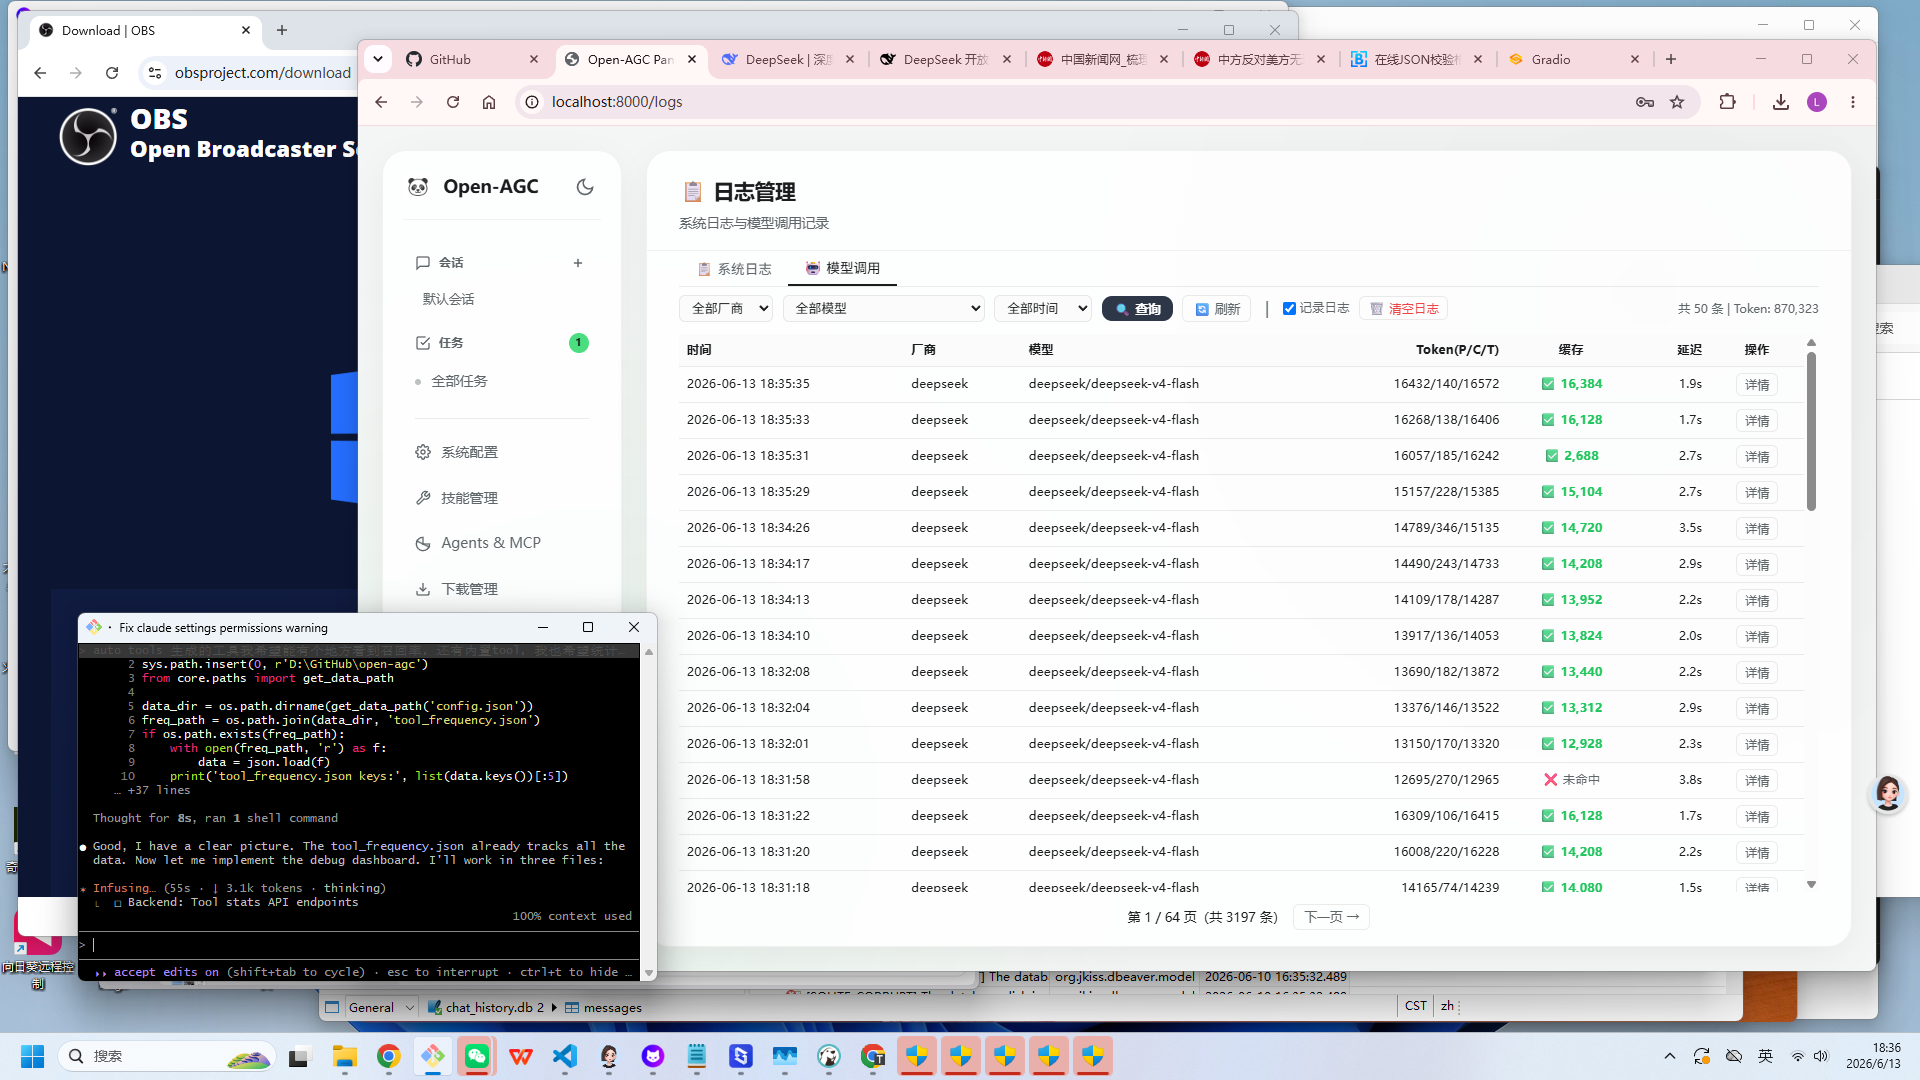
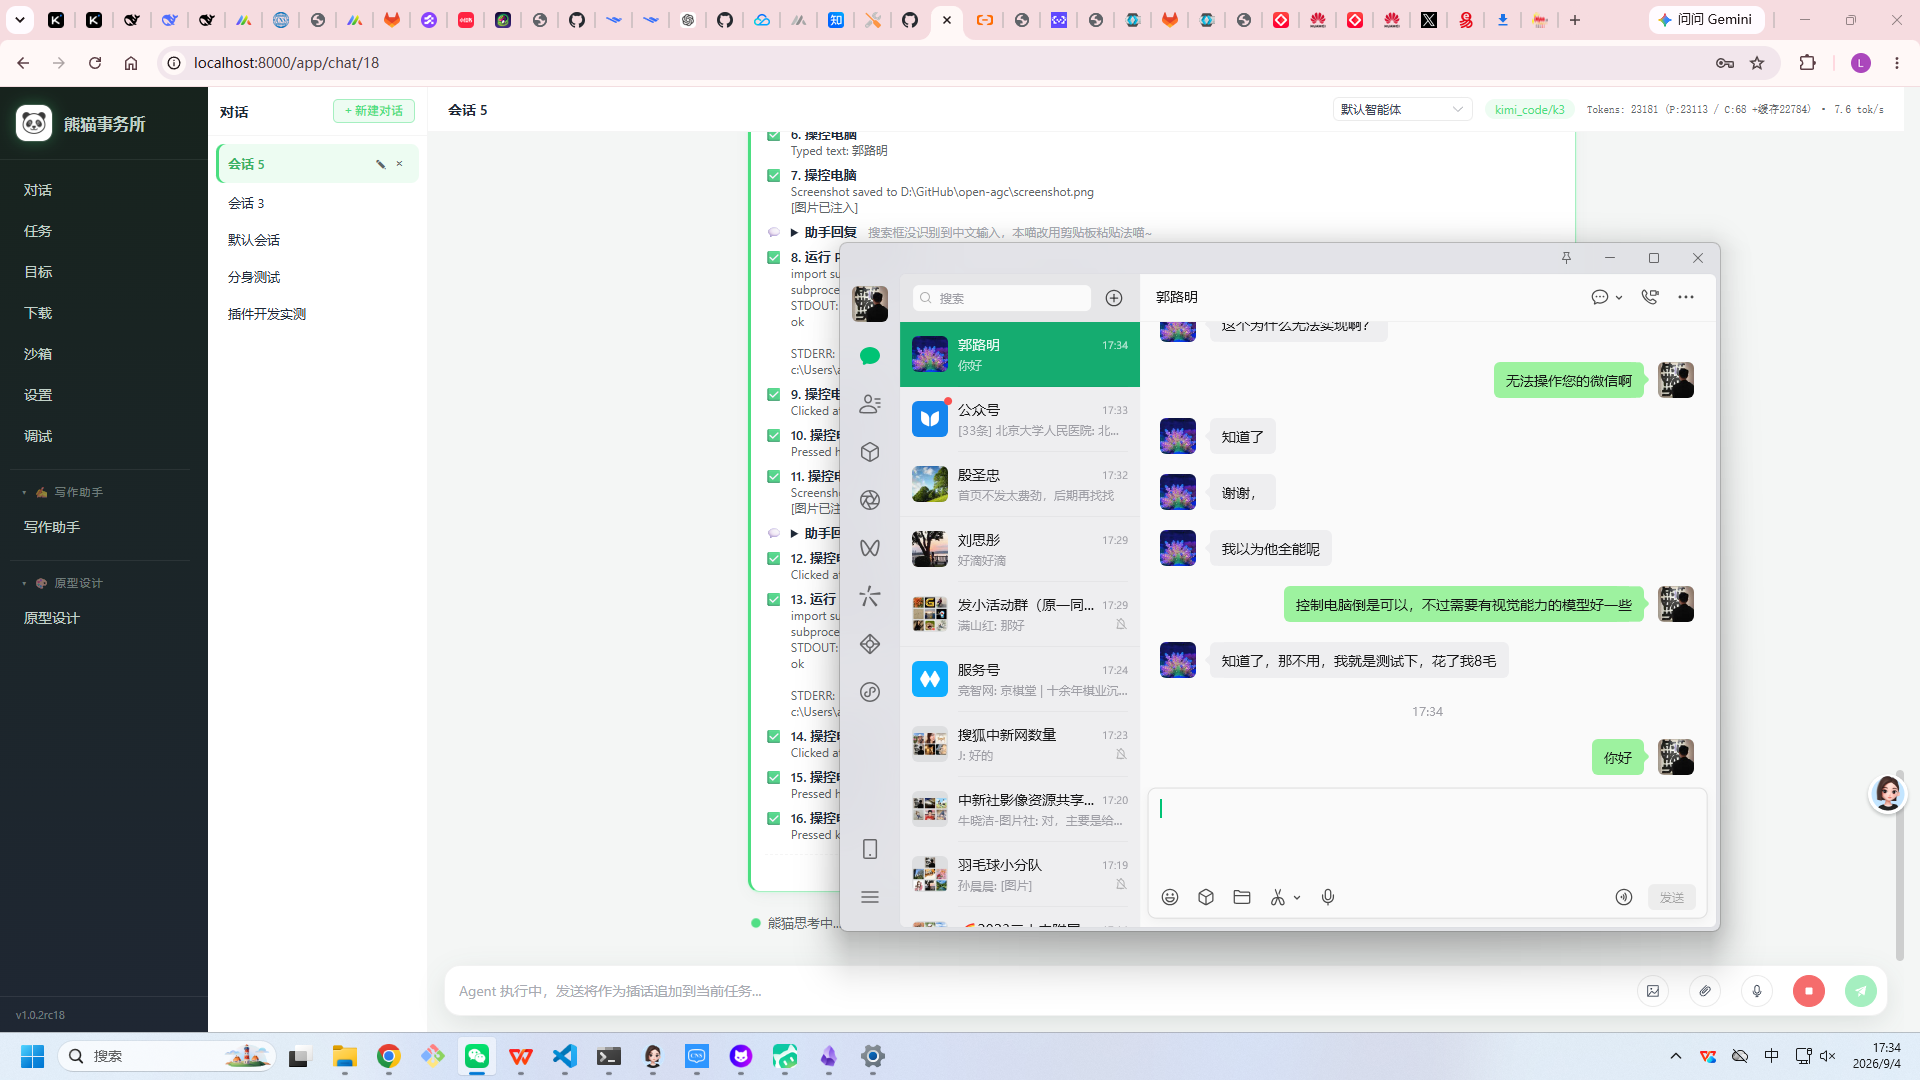
feat: 单实例锁——agent 任务中反复拉起 Open-AGC 导致多开窗口（无端口冲突也无互斥，每次启动一个新实例就开一个新窗口）。Windows 命名互斥体 / POSIX flock，进程退出自动释放，已有实例时直接退出不再开新窗

diff --git a/gui_app.py b/gui_app.py
@@ -342,7 +342,46 @@ def create_window(port):
         return _browser_fallback(_gui_err)
 
 
+def _acquire_single_instance_lock():
+    """单实例锁：已有实例运行时返回 False。
+
+    App 启动总是找空闲端口、没有任何互斥——agent 任务中执行了启动命令
+    （“测一下”“重启服务”等场景）就会每起一个新进程多开一个窗口（生产实证，
+    反复出现多个 Open-AGC 窗口）。Windows 用命名互斥体，POSIX 用 flock；
+    进程退出（含崩溃）自动释放。
+    """
+    if sys.platform.startswith('win'):
+        import ctypes
+        _ERROR_ALREADY_EXISTS = 183
+        handle = ctypes.windll.kernel32.CreateMutexW(None, False, "Global\\OpenAGC-SingleInstance")
+        if ctypes.windll.kernel32.GetLastError() == _ERROR_ALREADY_EXISTS:
+            try:
+                ctypes.windll.kernel32.CloseHandle(handle)
+            except Exception:
+                pass
+            return False
+        _acquire_single_instance_lock._handle = handle  # 防 GC 关闭句柄
+        return True
+
+    import fcntl
+    lock_path = os.path.join(os.path.expanduser("~"), ".open-agc", "app.lock")
+    os.makedirs(os.path.dirname(lock_path), exist_ok=True)
+    fd = open(lock_path, "w")
+    try:
+        fcntl.flock(fd, fcntl.LOCK_EX | fcntl.LOCK_NB)
+    except OSError:
+        fd.close()
+        return False
+    _acquire_single_instance_lock._fd = fd  # 防 GC 关闭 fd
+    return True
+
+
 def main():
+    # 单实例：已有实例在跑就直接退出，不再开新窗口
+    if not _acquire_single_instance_lock():
+        print("Open-AGC 已在运行中，不再启动第二个实例。")
+        sys.exit(0)
+
     # Attempt to find a free port instead of hardcoding 8765
     try:
         port = int(os.environ.get("PORT", find_free_port()))

diff --git a/tests/test_single_instance.py b/tests/test_single_instance.py
@@ -1,0 +1,47 @@
+# -*- coding: utf-8 -*-
+"""单实例锁回归测试：agent 任务中反复拉起 Open-AGC 时每起一个新进程就多开
+一个窗口（生产实证）。_acquire_single_instance_lock 必须在已有持锁者时
+返回 False，释放后可再拿。"""
+import importlib
+
+import gui_app
+
+
+def test_second_acquire_fails():
+    # 模块级句柄可能已被本进程其他测试持有——先清掉保证可重复
+    for attr in ("_handle", "_fd"):
+        if hasattr(gui_app._acquire_single_instance_lock, attr):
+            obj = getattr(gui_app._acquire_single_instance_lock, attr)
+            try:
+                if attr == "_fd":
+                    obj.close()
+            except Exception:
+                pass
+            delattr(gui_app._acquire_single_instance_lock, attr)
+
+    assert gui_app._acquire_single_instance_lock() is True
+    # 同一进程内再次获取必须失败（模拟第二个实例）
+    assert gui_app._acquire_single_instance_lock() is False
+
+
+def test_lock_released_allows_reacquire(tmp_path, monkeypatch):
+    """POSIX 路径：flock 释放后可重新获取（Windows 路径由上一用例覆盖）。"""
+    import sys
+    if sys.platform.startswith("win"):
+        import pytest
+        pytest.skip("POSIX flock 专用")
+    import fcntl, os
+    lock = tmp_path / "app.lock"
+    fd1 = open(lock, "w")
+    fcntl.flock(fd1, fcntl.LOCK_EX | fcntl.LOCK_NB)
+    fd2 = open(lock, "w")
+    try:
+        fcntl.flock(fd2, fcntl.LOCK_EX | fcntl.LOCK_NB)
+        assert False, "第二把锁不应拿到"
+    except OSError:
+        pass
+    fd2.close()
+    fd1.close()  # 释放
+    fd3 = open(lock, "w")
+    fcntl.flock(fd3, fcntl.LOCK_EX | fcntl.LOCK_NB)  # 不抛异常即成功
+    fd3.close()
